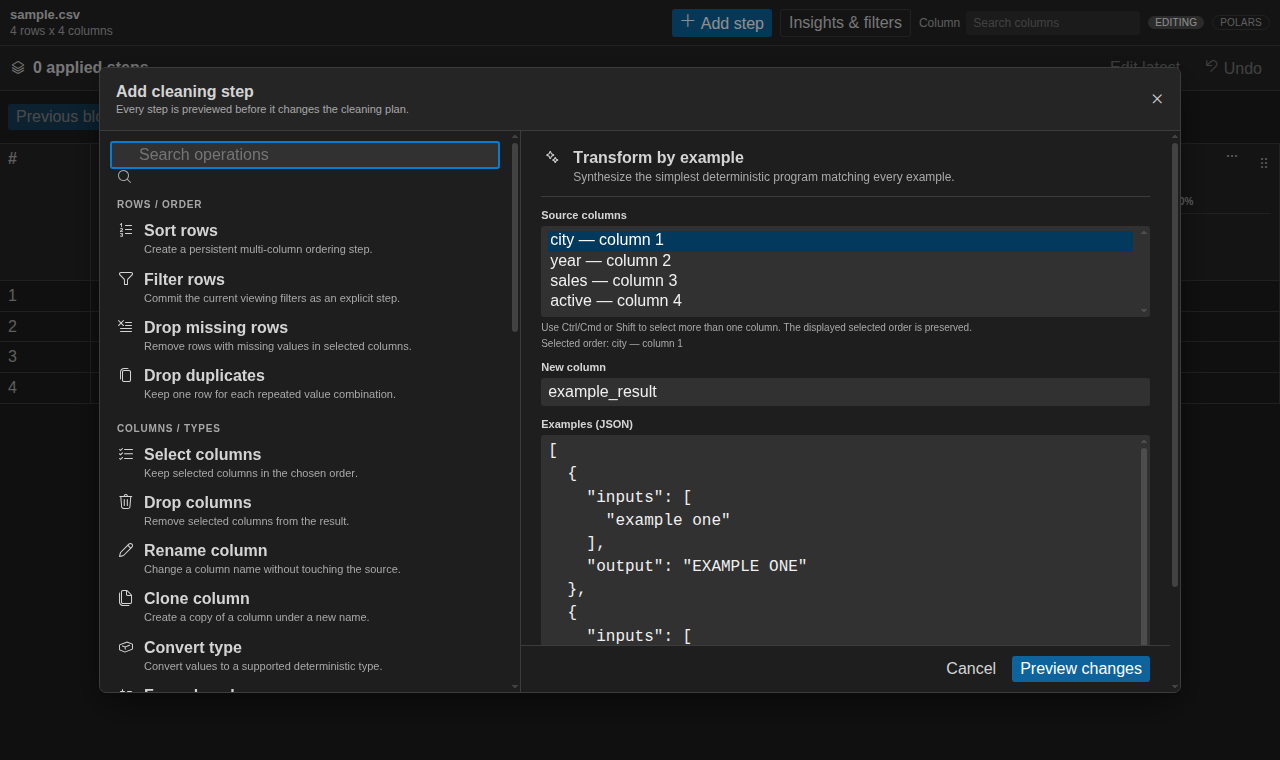
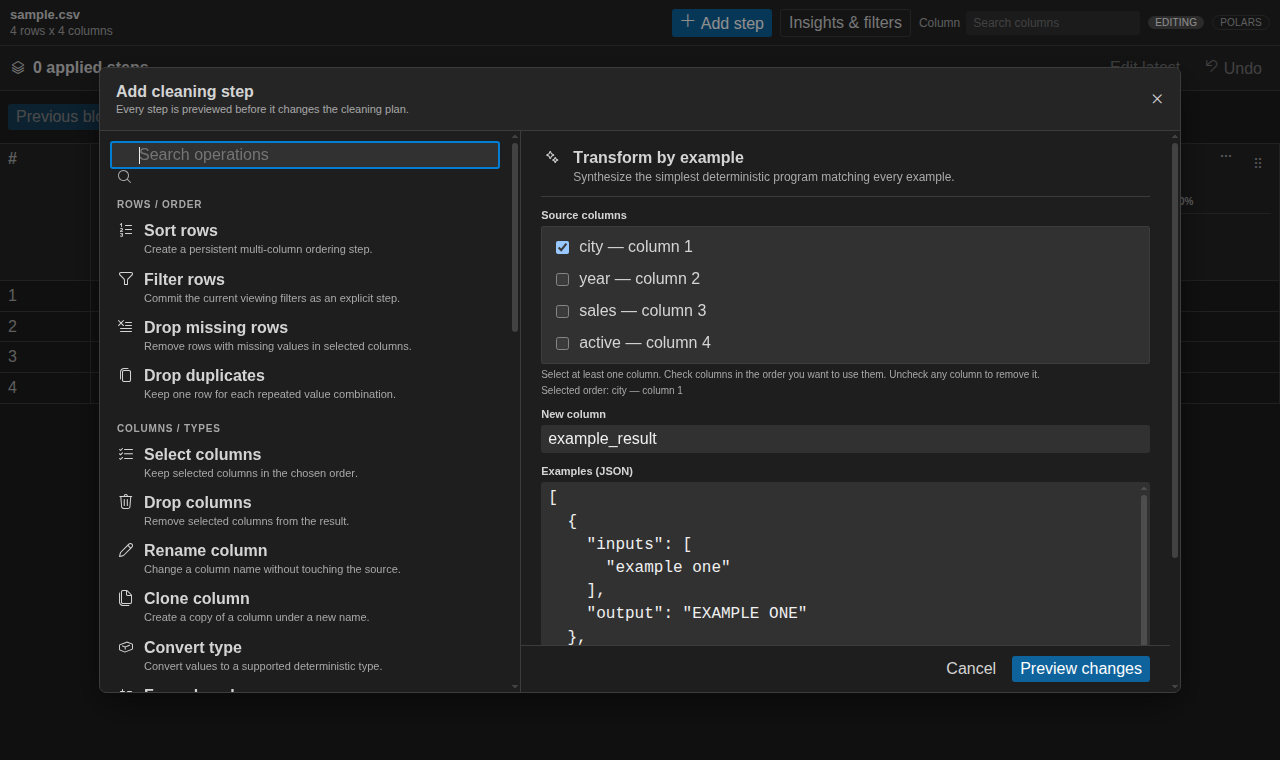
fix: restore visible drawer focus

diff --git a/src/webviews/App.tsx b/src/webviews/App.tsx
@@ -36,6 +36,15 @@ function scheduleWebviewFocusRestoration(restore: () => void): number {
   });
 }
 
+function canRestoreFocusTo(target: HTMLElement | null | undefined): target is HTMLElement {
+  return Boolean(
+    target?.isConnected &&
+    target.tabIndex >= 0 &&
+    !target.matches(":disabled") &&
+    target.closest("[inert], [hidden], details:not([open])") === null
+  );
+}
+
 export function App() {
   const [metadata, setMetadata] = useState<SessionMetadata | undefined>();
   const [page, setPage] = useState<GridPage | undefined>();
@@ -161,9 +170,7 @@ export function App() {
     const returnTarget = operationReturnFocus.current;
     operationReturnFocus.current = null;
     const frame = scheduleWebviewFocusRestoration(() => {
-      const targetIsAvailable =
-        returnTarget?.isConnected && !returnTarget.matches(":disabled") && returnTarget.closest("[inert]") === null;
-      if (targetIsAvailable) {
+      if (canRestoreFocusTo(returnTarget)) {
         returnTarget.focus();
         return;
       }
@@ -1714,9 +1721,7 @@ export function App() {
     const returnTarget = sidePanelReturnFocus.current;
     sidePanelReturnFocus.current = null;
     scheduleWebviewFocusRestoration(() => {
-      const targetIsAvailable =
-        returnTarget?.isConnected && !returnTarget.matches(":disabled") && returnTarget.closest("[inert]") === null;
-      if (targetIsAvailable) returnTarget.focus();
+      if (canRestoreFocusTo(returnTarget)) returnTarget.focus();
       else sidePanelToggleRef.current?.focus();
     });
   };

diff --git a/src/test/appProgressiveProfiling.component.test.tsx b/src/test/appProgressiveProfiling.component.test.tsx
@@ -256,7 +256,7 @@ describe("App progressive profiling and view correlation", () => {
     }
   );
 
-  it("returns drawer focus to the exact column-filter opener", async () => {
+  it("returns drawer focus to the toolbar when the column-filter opener is hidden", async () => {
     const frames: FrameRequestCallback[] = [];
     const requestFrame = vi.spyOn(window, "requestAnimationFrame").mockImplementation((callback) => {
       frames.push(callback);
@@ -278,7 +278,7 @@ describe("App progressive profiling and view correlation", () => {
 
       fireEvent.keyDown(close, { key: "Escape" });
       act(() => frames.shift()?.(performance.now()));
-      expect(filter).toHaveFocus();
+      expect(screen.getByRole("button", { name: "Insights & filters" })).toHaveFocus();
     } finally {
       hasFocus.mockRestore();
       requestFrame.mockRestore();

diff --git a/src/webviews/operations/OperationBuilder.tsx b/src/webviews/operations/OperationBuilder.tsx
@@ -1482,7 +1482,6 @@ function ColumnReferencesSelect({
     <fieldset
       className="columnSelectionField"
       aria-describedby={preserveSelectionOrder && selectedLabels.length > 0 ? `${helpId} ${orderId}` : helpId}
-      aria-required={required}
     >
       <legend>{label}</legend>
       {selectedIds.map((id) => (
@@ -1512,6 +1511,7 @@ function ColumnReferencesSelect({
         {columns.length === 0 && <span className="mutedText">No compatible columns are available.</span>}
       </div>
       <small id={helpId}>
+        {required ? "Select at least one column. " : ""}
         {preserveSelectionOrder
           ? "Check columns in the order you want to use them. Uncheck any column to remove it."
           : "Check each column you want to include. No keyboard modifier is required."}

diff --git a/CHANGELOG.md b/CHANGELOG.md
@@ -18,6 +18,7 @@ All notable changes to Open Wrangler are documented here. The project follows Se
 
 ### Fixed
 
+- Restored keyboard focus to a visible control when closing Filters / Sorts after entering through a column menu; a closed menu item or the document body can no longer be mistaken for a valid return target. Required multi-column checklists now use explicit group guidance instead of an invalid `aria-required` fieldset attribute.
 - Opened zero-byte, BOM-only, and whitespace-only CSV/TSV sources as explicit 0-row × 0-column datasets in Pandas, Polars, and DuckDB instead of surfacing raw parser failures. Non-empty malformed input still fails in its native reader, and opening never changes source bytes.
 - Kept the installed dataframe surface on the declared VS Code foreground and editor-background tokens instead of inheriting a subtly different workbench color from the host webview.
 - Treated Polars CSV, TSV, Parquet, and JSONL source paths as exact local filenames, so brackets, asterisks, question marks, and braces can no longer be expanded as glob patterns or silently select a different file.
